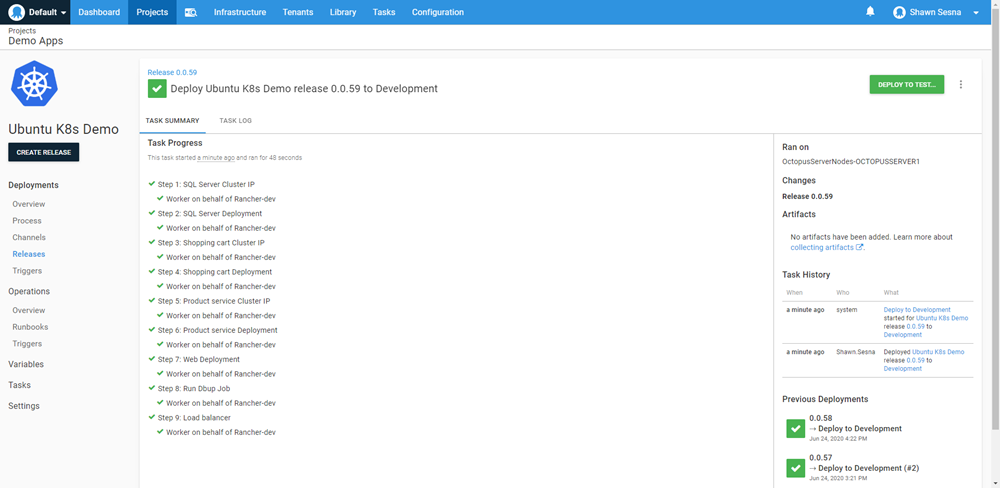
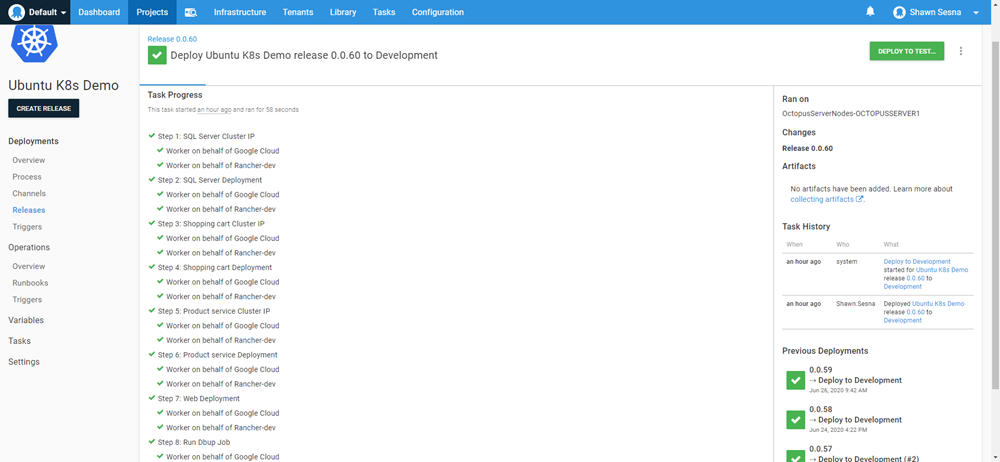
Added second deployment cluster

Changed region(s): [[0.0, 0.0, 1.0, 1.0], [0.775, 0.0909, 0.992, 1.0], [0.992, 0.8182, 1.0, 0.8788]]

diff --git a/blog/2020-06/deploy-to-rancher-with-octopus/index.md b/blog/2020-06/deploy-to-rancher-with-octopus/index.md
@@ -21,11 +21,7 @@ $ sudo docker run -d --restart=unless-stopped -p 80:80 -p 443:443 rancher/ranche
 
 There are, of course, more advanced installations with High Availability and a range of other options (see https://rancher.com/docs/rancher/v2.x/en/installation/), but for testing it out, that's all that is needed.  Once the container is up and running, connect to it with a browser and set the `admin` password.  After setting the password, you're ready to create a cluster.
 
-## Creating a cluster
-Rancher has made the process of creating a cluster really simple and easy to follow.  Once in the UI, simply click on **Add Cluster**
-
-![](rancher-add-cluster.png)
-
+## Creating clusters
 Rancher can work with:
 - On-premise infrastructure
 - Cloud infrastructure providers
@@ -34,12 +30,20 @@ Rancher can work with:
   - Digital Ocean
   - Linode
   - vShere
-- Cloud Kubernetes sercices
+- Cloud Kubernetes services
   - Amazon Elastic Kubernetes Service (EKS)
   - Azure Kubernetes Service (AKS)
   - Google Kubernetes Engine (GKE)
 
-For this post, I created three Ubuntu VMs for my cluster so I chose **From existing nodes (Custom)**.
+For this post, I created two Kubernetes (K8s) to demonstrate the versatility of using Rancher with Octopus deploy; one on-premise and one using a Cloud Kubernetes service.
+
+
+### First cluster
+Rancher has made the process of creating a cluster really simple and easy to follow.  Once in the UI, simply click on **Add Cluster**
+
+![](rancher-add-cluster.png)
+
+I created three Ubuntu VMs for my on-premise cluster so I chose **From existing nodes (Custom)** for my first cluster.
 
 ![](rancher-choose-cluster.png)
 
@@ -60,7 +64,18 @@ As you run the commands on each node, the screen will show a pop-up indicating h
 
 ![](rancher-new-cluster.png)
 
-## Connecting the cluster to Octopus Deploy
+### Second cluster
+For the second cluster, I chose to use the Cloud Kubernetes Service of GKE.
+
+![](rancher-gke-cluster.png)
+
+The creation process for GKE was a bit different than on-premise.  The first step was to create the [Google Service Account](https://cloud.google.com/iam/docs/service-accounts) with sufficient permissions to create the cluster resources.  Next create a JSON Key for the service account, this is needed for Rancher to authenticate with Google.  After you paste (or use the **Read from a file** button) the JSON, click **Next: Configure Nodes**.
+
+![](rancher-gke-cluster-service-account.png)
+
+Unlike the on-premise setup, creating a cluster on GKE is automated.  Using the Service Account, Rancher connects to Google and provisions all resources for you.
+
+## Connecting the clusters to Octopus Deploy
 Not only does Rancher provide a centralized interface to manage Kubernetes clusters, it also provides a centralized means of communication to the clusters.  This means that Octopus Deploy can connect to Rancher instead of having to connect to the clusters it manages individually.
 
 ### Authentication
@@ -80,8 +95,8 @@ After you click create, you will be shown the API Key information, **save this i
 
 ![](rancher-api-key.png)
 
-### Finding the right API endpoint
-If you are framiliar with Kubernetes, you already know that commands are issued against an API endpoint like `https://ubuntu-k8:16443`.  However, the correct API to use with Rancher for Octopus Deploy can be a bit tricky to find if you don't know where to look (hint: it's not the Endpoint you were presented with when creating your API Key from the Authentication section above).  The correct endpoint is `https://<RancherUrl>/k8s/clusters/<ClusterId>`.  
+### Rancher cluster endpoints
+As previously mentioned, you are able to proxy communication to your clusters through Rancher.  Instead of connecting to the individual K8s API endpoints directly, you can use API endpoints within Rancher to issue commands such as deployment.  The format of the url is as follows: `https://<RancherUrl>/k8s/clusters/<ClusterId>`.
 
 A quick way to find the correct URL is to grab it from the provided Kubeconfig File information.  For each cluster defined, Rancher provides a `Kubeconfig File` that can be downloaded directly from the UI.  To find it, select the cluster you need from the Global dashboard
 
@@ -100,16 +115,16 @@ In order for Octopus Deploy to be able to deploy to the cluster, it needs creden
 
 ![](octopus-accounts.png)
 
-Rancher provided us with two methods to authenticate with when we created our API Key, Username and Password or Token.  Both of these methods will work with Octopus Deploy so it's up to you as to which one you want to use.  For this post, I chose token out of pure laziness in that it was only one value to input versus two.
+Rancher provided us with two methods to authenticate with when we created our API Key, Username and Password or Token.  Both of these methods will work with Octopus Deploy so it's up to you as to which one you want to use.  For this post, I chose token.
 
 Click on **ADD ACCOUNT** and select which Account type you want to create
 
 Fill in the values for your selection, then click **SAVE**
 
-Now that we have our Account created, we're ready to create our Kubernetes target!
+Now that we have our Account created, we're ready to create our Kubernetes targets!
 
 ### Create a Kubernetes Deployment Target
-With the prepw work out of the way, we can now add your Rancher managed Kubernetes cluster to Octopus Deploy.  Adding the target is exactly how you would add any other Kubernetes target.  Click on Infrastructure -> Deployment Targets
+With the prep work out of the way, we can now add your Rancher managed Kubernetes clusters to Octopus Deploy.  Adding the target is exactly how you would add any other Kubernetes target.  Click on Infrastructure -> Deployment Targets
 
 ![](octopus-deployment-targets.png)
 
@@ -129,7 +144,7 @@ The two most important parts of the Kubernetes Deployment Target form are going 
 Select the radio button that corresponds with what you've chosen to connect to Rancher with.  For this post, I chose Token.
 
 #### Kubernetes Details
-This is where we use the URL we found from the `kubeconfig`.  In my case, it was `https://rancher1/k8s/clusters/c-v4cbx`.  Since my cluster is using a self-signed certificate, I needed to also select `Skip TLS verification`.  Also, I created three namespaces for my cluster
+This is where we use the URL we found from the `kubeconfig`.  For the first cluster, it was `https://rancher1/k8s/clusters/c-v4cbx`.  Since my cluster is using a self-signed certificate, I needed to also select `Skip TLS verification`.  Also, I created three namespaces for my cluster
 - development
 - test
 - production
@@ -138,16 +153,16 @@ This is where we use the URL we found from the `kubeconfig`.  In my case, it was
 
 Click **SAVE** and you're done!  For verification, you can watch for the initial health check to run.
 
-## Deploying to the cluster
+## Deploying to the clusters
 Deploying to a cluster that is managed through Rancher is no different than deploying to a non-Rancher managed cluster.  I'll use the same example process from my [Beyond Hello World: Build a real-world Kubernetes CI/CD pipeline](https://octopus.com/blog/build-a-real-world-kubernetes-cicd-pipeline) post, but target the Rancher managed cluster instead.  If you haven't read that post, the project looks like this,
 
 ![](octopus-project-process.png)
 
-Deploying the Release, we can see it executed against Rancher-dev
+Deploying the Release, we can see it executed against both our on-premise cluster Rancher-dev and our Google Cloud cluster
 
 ![](octopus-project-deployment-complete.png)
 
-And there you have it, we've successfully deployed to a Kubernetes cluster managed by Rancher!
+And there you have it, we've successfully deployed to Kubernetes clusters managed by Rancher!
 
 ## Conclusion
 In this post I demonstrated how you can integrate Racher with Octopus deploy.  Happy Deployments!
